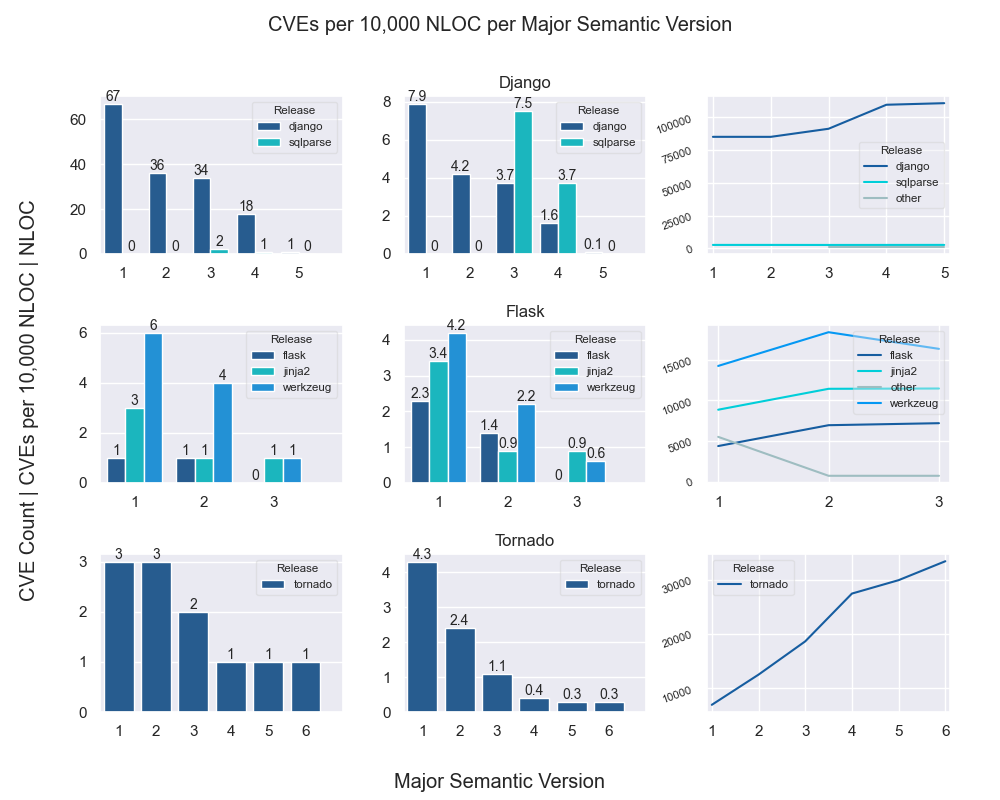
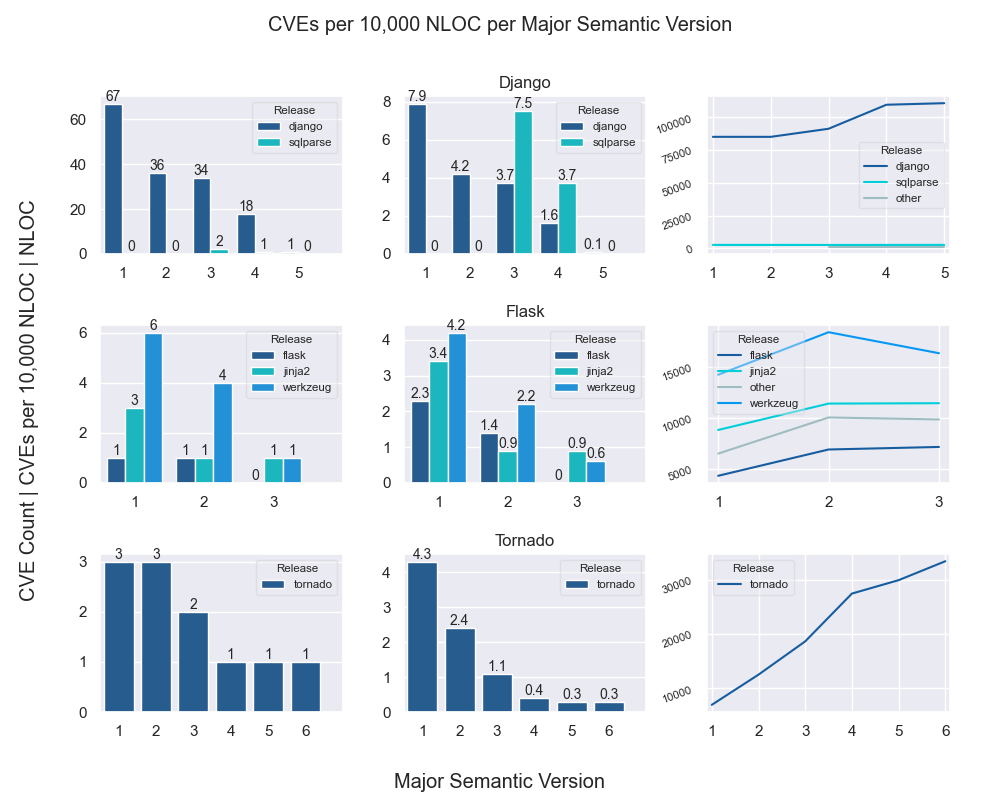
Fix other nloc count

Changed region(s): [[0.651, 0.4062, 0.961, 0.5938]]

diff --git a/scripts/plotter.py b/scripts/plotter.py
@@ -875,6 +875,11 @@ def plot_semver(df: pd.DataFrame, static_df: pd.DataFrame):
             if dtmp['major'].unique().size == majors.size:
                 pdf.loc[pdf['release'] == rel, 'release'] = 'other'
                 palette['other'] = Global.Colours.light_grey
+        
+        for major in pdf['major'].unique():
+            other_nloc_sum = pdf[(pdf['major'] == major) & (pdf['release'] == 'other')]['nloc_total'].sum()
+            # overwrite value
+            pdf.loc[(pdf['major'] == major) & (pdf['release'] == 'other'), 'nloc_total'] = other_nloc_sum
 
         pdf['cves_per_nloc'] = 10000 * pdf['cve_count'] / pdf['nloc_total']
         # round the cves_per_nloc to 2 decimal places
